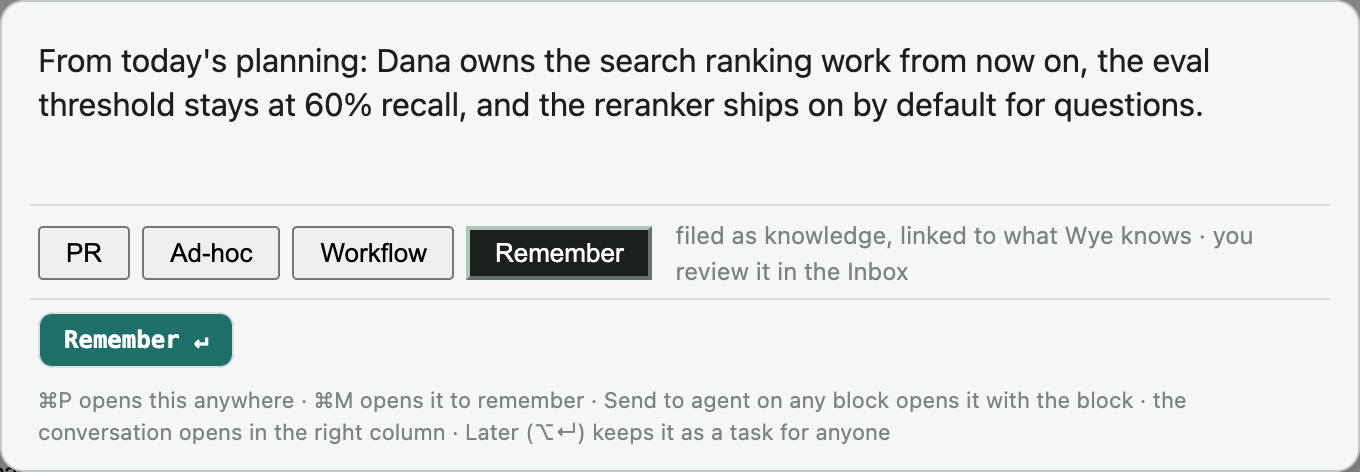
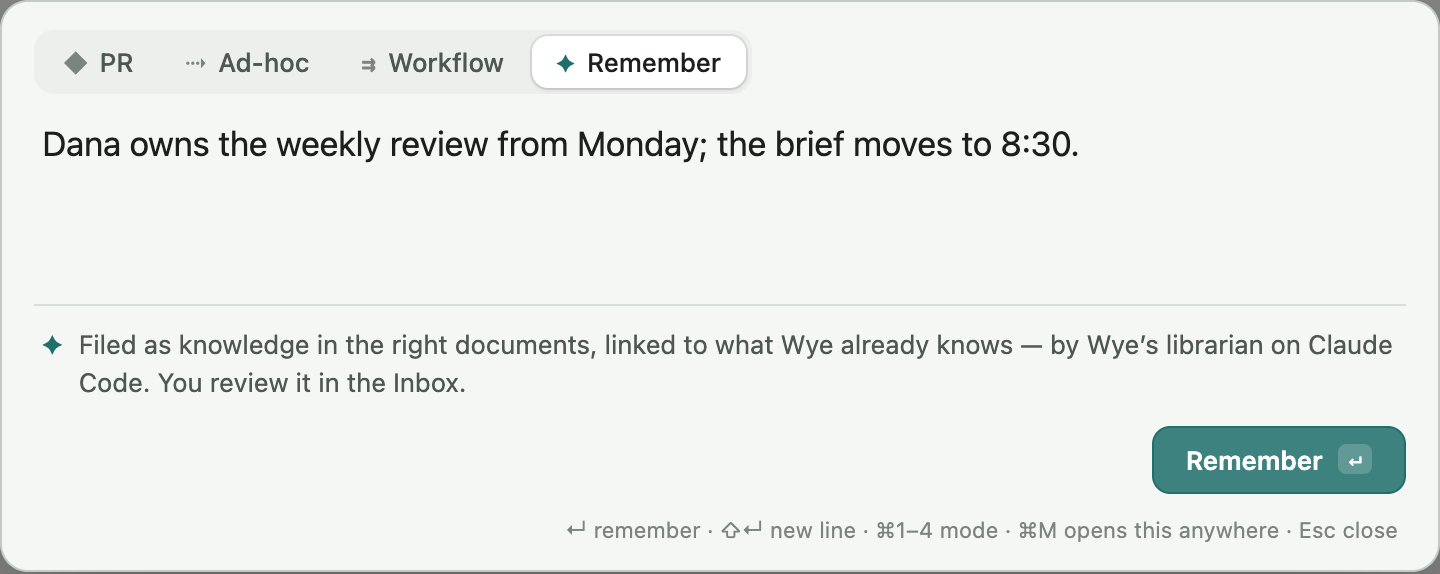
the command box: modes as a segmented control on top (⌘1–4), a line saying what the mode does and who does it, labelled fields, the action on the right with its key, this mode's keys only

diff --git a/packages/web/src/components/CommandBox.tsx b/packages/web/src/components/CommandBox.tsx
@@ -22,6 +22,13 @@ import { loadRecent, rememberRecent } from '@/lib/recent';
 // stages produce their documents and each one waits for your Advance, and with nothing under the cursor the typed idea
 // becomes the document the run starts from. Images pasted or dropped into the box go along (req:wf2.ui.palette-images).
 export type CmdMode = 'pr' | 'adhoc' | 'workflow' | 'remember';
+// the box's modes, in the order ⌘1–4 picks them
+const MODES: { key: CmdMode; label: string; icon: string; title: string }[] = [
+  { key: 'pr', label: 'PR', icon: '◆', title: 'A Prompt Request: a page under PRs, refined with Wye until it is clear, approved by you, then built' },
+  { key: 'adhoc', label: 'Ad-hoc', icon: '⇢', title: 'A conversation with a coding agent on what you are looking at' },
+  { key: 'workflow', label: 'Workflow', icon: '⇉', title: 'Run a workflow: each stage writes its document and waits for you' },
+  { key: 'remember', label: 'Remember', icon: '✦', title: 'Paste information: Wye files it as knowledge, linked to what it knows' },
+];
 // `mode` opens the box in that mode whatever was used last (⌘M → remember)
 export type SendRequest = { text?: string; refs?: string[]; source?: { project?: string; doc?: string; blockId?: string; link?: string }; mode?: CmdMode };
 export function requestSend(detail: SendRequest) { window.dispatchEvent(new CustomEvent('wf:send', { detail })); }
@@ -79,6 +86,7 @@ export function CommandBox() {
       if ((e.metaKey || e.ctrlKey) && !e.shiftKey && !e.altKey && e.key.toLowerCase() === 'p') { e.preventDefault(); if (req) setReq(null); else show(here()); }
       // ⌘M (Ctrl+M in a browser, where ⌘M minimizes the window): the box in Remember mode — paste, and Wye files it
       else if ((e.metaKey || e.ctrlKey) && !e.shiftKey && !e.altKey && e.key.toLowerCase() === 'm') { e.preventDefault(); if (req && mode === 'remember') setReq(null); else { show({ ...here(), mode: 'remember' }); setModeState('remember'); } }
+      else if (req && (e.metaKey || e.ctrlKey) && !e.shiftKey && !e.altKey && /^[1-4]$/.test(e.key)) { e.preventDefault(); setMode(MODES[Number(e.key) - 1].key); }
       // Escape leaves a recalled command behind first, and closes the box on the next press (task:palette-recent-commands)
       else if (e.key === 'Escape' && req) { if (at >= 0) { e.preventDefault(); e.stopPropagation(); setAt(-1); setText(''); } else setReq(null); }
     };
@@ -199,55 +207,55 @@ export function CommandBox() {
   };
   const label = (s: Live) => `${AGENTS.find(a => a.id === s.agent)?.label ?? s.agent} · ${s.instruction.split('\n').find(l => l.trim())?.slice(0, 50) ?? s.id}`;
   const refs = req.refs ?? [];
+  const M = MODES.find(m => m.key === mode) ?? MODES[0];
+  const placeholder = isRem ? 'Paste notes, a message, an update…' : isWf ? 'The idea, in a line or two' : isPr ? 'What do you want to change?' : isNew ? 'What should the agent do?' : 'Your next message to that conversation';
+  const about = isPr ? 'A Prompt Request — Wye\u2019s librarian on Claude Code reads what the product knows, asks what it must and proposes the blocks; you approve on the PR\u2019s page before anything is built.'
+    : isRem ? 'Filed as knowledge in the right documents, linked to what Wye already knows — by Wye\u2019s librarian on Claude Code. You review it in the Inbox.'
+    : isWf ? 'Runs a workflow on what you are looking at — each stage writes its document and waits for you to advance it.'
+    : !isNew ? (fresh ? 'Restarts that conversation\u2019s agent from nothing, then sends this as its first message.' : 'Goes into that conversation as your next message; the agent keeps its context and folder.')
+    : target === 'runner' ? 'Queued until a runner for that agent picks it up (wye agent listen).' : 'A conversation with a coding agent on what you are looking at — nothing is written unless you ask.';
+  const verb = busy ? 'Sending…' : isWf ? 'Run' : isRem ? 'Remember' : isPr ? 'Start the PR' : !isNew ? (fresh ? 'Restart & send' : 'Send') : target === 'runner' ? 'Queue' : 'Talk';
+  const canLater = isNew && !isWf && !isRem;
+  const empty = !text.trim() && !attach.images.length && !(isWf && refsOf(req).length);
   return createPortal(
     <div className="modal-back palette-back" onMouseDown={e => { if (e.target === e.currentTarget) setReq(null); }}>
-      <div className="modal palette" role="dialog" aria-label="Command" onDragOver={attach.onDragOver} onDrop={attach.onDrop}>
-        <textarea ref={box} className="palette-in" value={text} rows={text.split('\n').length > 3 ? 6 : 3} placeholder={isRem ? 'Paste what Wye should remember — meeting notes, a message, an update, facts about a person or a project (Enter to file it, Shift+Enter for a new line)' : isWf ? 'The idea, in a line or two — its first line names the document when there is nothing under the cursor (Enter runs the workflow)' : isPr ? 'What do you want? — improve …, allow …, change … (Enter starts the PR; Shift+Enter for a new line)' : isNew ? 'What should the agent do? — fix …, build …, change … (Enter to run, Shift+Enter for a new line; paste a screenshot too)' : 'Your next message to that conversation (Enter to send, Shift+Enter for a new line; paste a screenshot too)'} onChange={e => setText(e.target.value)} onPaste={attach.onPaste} onKeyDown={e => { if (e.key === 'Enter' && !e.shiftKey) { e.preventDefault(); if (e.altKey && !isRem) later(); else run(); } else history(e); }} disabled={busy} />
+      <div className={`modal palette mode-${mode}`} role="dialog" aria-label="Command" onDragOver={attach.onDragOver} onDrop={attach.onDrop}>
+        <div className="palette-modes" role="tablist" aria-label="Mode">
+          {MODES.map((m, i) => <button key={m.key} type="button" role="tab" aria-selected={mode === m.key} className={`pm ${mode === m.key ? 'on' : ''}`} onClick={() => setMode(m.key)} title={`${m.title} (⌘${i + 1})`}><i aria-hidden>{m.icon}</i>{m.label}</button>)}
+        </div>
+        <textarea ref={box} className="palette-in" value={text} rows={text.split('\n').length > 3 ? 6 : 3} placeholder={placeholder} onChange={e => setText(e.target.value)} onPaste={attach.onPaste} onKeyDown={e => { if (e.key === 'Enter' && !e.shiftKey) { e.preventDefault(); if (e.altKey && canLater) later(); else run(); } else history(e); }} disabled={busy} />
         <AttachStrip images={attach.images} remove={attach.remove} />
         {refs.length > 0 && <div className="palette-ctx"><span className="muted">with</span>{refs.map(id => <SmartTag key={id} id={id} />)}{req.source?.blockId && <span className="muted">· this block</span>}</div>}
-        <div className="palette-row palette-intent" role="radiogroup" aria-label="Mode">
-          <button type="button" className={`chip ${isPr ? 'on' : ''}`} onClick={() => setMode('pr')} title="A Prompt Request: a page under PRs, refined with Wye until it is clear, approved by you, then built">PR</button>
-          <button type="button" className={`chip ${mode === 'adhoc' ? 'on' : ''}`} onClick={() => setMode('adhoc')} title="A conversation with a coding agent on what you are looking at; nothing is written unless you ask">Ad-hoc</button>
-          <button type="button" className={`chip ${isWf ? 'on' : ''}`} onClick={() => setMode('workflow')} title="Run a workflow on what you are looking at: each stage produces its document and waits for you to advance it">Workflow</button>
-          <button type="button" className={`chip ${isRem ? 'on' : ''}`} onClick={() => setMode('remember')} title="Paste information: Wye files it as knowledge in the right documents, linked to what it already knows, and you review it in the Inbox (⌘M)">Remember</button>
-          <span className="muted palette-note">{isPr ? 'a request: refine → approve → build' : isRem ? 'filed as knowledge, linked to what Wye knows · you review it in the Inbox' : isWf ? 'stage by stage, you advance each one' : 'a conversation, no PR'}</span>
-        </div>
-        {isWf && <div className="palette-row">
-          <label className="palette-to"><span className="muted">run</span>
-            <select value={wf} onChange={e => setWf(e.target.value)} title="which workflow">
-              {workflows.length === 0 && <option value="">no workflow runs on this</option>}
-              {workflows.map(w => <option key={w.id} value={w.id}>{w.title} — {w.stages.length} stages</option>)}
-            </select>
-          </label>
-          <span className="muted palette-note">{(() => { const w = workflows.find(x => x.id === wf); const on = refsOf(req)[0]; return w ? `${on ? `on ${on}` : 'the first line becomes a new document'} · stage 1 of ${w.stages.length}: ${w.stages[0]?.title ?? ''}` : ''; })()}</span>
-        </div>}
-        {!isPr && !isWf && !isRem && <div className="palette-row">
-          <label className="palette-to"><span className="muted">to</span>
-            <select value={target} onChange={e => setTarget(e.target.value)} title="where the message goes">
-              {sessions.length > 0 && <optgroup label="active conversations">{sessions.map(s => <option key={s.id} value={s.id}>{label(s)}</option>)}</optgroup>}
-              <optgroup label="new"><option value="new">New conversation — a coding agent</option><option value="runner">Queue for a runner (wye agent listen)</option></optgroup>
-            </select>
-          </label>
-          {isNew && <select value={agent} onChange={e => setAgent(e.target.value)} title="agent">{AGENTS.map(a => <option key={a.id} value={a.id}>{a.label}</option>)}</select>}
-        </div>}
-        {isPr && <div className="palette-row"><AttachPicker product={product} value={attachTo} onChange={setAttachTo} compact /></div>}
-        {isPr && <div className="palette-row"><span className="muted palette-note">Wye reads what the product already knows, explains the current state, asks what it must, and proposes the requirements, decisions, questions and tasks as blocks on the PR's page — you approve there; nothing is built before that</span></div>}
-        {!isNew && !isWf && (
-          <div className="palette-row">
-            <label className="palette-plan" title="Stop that agent and start a fresh one in the same folder before this message: it forgets the conversation so far and reads what it needs from Wye">
-              <input type="checkbox" checked={fresh} onChange={e => setFresh(e.target.checked)} /> clear context first — a fresh agent, same folder, for an unrelated task
+        <div className="palette-opts">
+          <p className="palette-about"><i aria-hidden>{M.icon}</i><span>{about}</span></p>
+          {isWf && <div className="palette-fields">
+            <label className="palette-field"><span>Workflow</span>
+              <select value={wf} onChange={e => setWf(e.target.value)}>
+                {workflows.length === 0 && <option value="">no workflow runs on this</option>}
+                {workflows.map(w => <option key={w.id} value={w.id}>{w.title} — {w.stages.length} stages</option>)}
+              </select>
             </label>
-          </div>
-        )}
-        <div className="palette-row">
-          {!isPr && !isWf && !isRem && target === 'new' && <input className="palette-cwd" value={cwd} placeholder={defaults.cwd || 'working folder: the code repository the agent works in'} onChange={e => setCwd(e.target.value)} spellCheck={false} title="working folder" />}
-          {!isNew && !isWf && <span className="muted palette-note">{fresh ? 'restarts that conversation\u2019s agent from nothing — after its current turn when one is open — then sends this as its first message' : 'goes into that conversation as your next message; the agent keeps its context and folder'}</span>}
-          {target === 'runner' && <span className="muted palette-note">queued until a runner for that agent picks it up</span>}
-          {isNew && !isWf && !isRem && <button className="palette-later" onClick={later} disabled={!text.trim() || busy} title="Keep it as a task on the backlog — unassigned, on the Work view — without sending it to anyone (⌥↵)">Later</button>}
-          <button className="palette-go" onClick={run} disabled={(!text.trim() && !attach.images.length && !(isWf && refsOf(req).length)) || busy}>{busy ? 'Sending…' : isWf ? 'Run ↵' : isRem ? 'Remember ↵' : isPr ? 'Start the PR ↵' : !isNew ? (fresh ? 'Restart & send ↵' : 'Send ↵') : target === 'runner' ? 'Queue ↵' : 'Talk ↵'}</button>
+            <span className="muted palette-note">{(() => { const w = workflows.find(x => x.id === wf); const on = refsOf(req)[0]; return w ? `${on ? `on ${on}` : 'the first line becomes a new document'} · stage 1 of ${w.stages.length}: ${w.stages[0]?.title ?? ''}` : ''; })()}</span>
+          </div>}
+          {mode === 'adhoc' && <div className="palette-fields">
+            <label className="palette-field"><span>To</span>
+              <select value={target} onChange={e => setTarget(e.target.value)}>
+                {sessions.length > 0 && <optgroup label="active conversations">{sessions.map(s => <option key={s.id} value={s.id}>{label(s)}</option>)}</optgroup>}
+                <optgroup label="new"><option value="new">New conversation</option><option value="runner">Queue for a runner</option></optgroup>
+              </select>
+            </label>
+            {isNew && <label className="palette-field"><span>Agent</span><select value={agent} onChange={e => setAgent(e.target.value)}>{AGENTS.map(a => <option key={a.id} value={a.id}>{a.label}</option>)}</select></label>}
+            {target === 'new' && <label className="palette-field palette-field-wide"><span>Folder</span><input className="palette-cwd" value={cwd} placeholder={defaults.cwd || 'the code repository the agent works in'} onChange={e => setCwd(e.target.value)} spellCheck={false} /></label>}
+            {!isNew && <label className="palette-check" title="Stop that agent and start a fresh one in the same folder before this message: it forgets the conversation so far and reads what it needs from Wye"><input type="checkbox" checked={fresh} onChange={e => setFresh(e.target.checked)} /> clear context first</label>}
+          </div>}
+          {isPr && <div className="palette-fields"><AttachPicker product={product} value={attachTo} onChange={setAttachTo} compact /></div>}
         </div>
         {msg && <p className="bad palette-msg">{msg}</p>}
-        <p className="muted palette-hint">⌘P opens this anywhere · ⌘M opens it to remember · Send to agent on any block opens it with the block · the conversation opens in the right column · Later (⌥↵) keeps it as a task for anyone{recent.length > 0 ? ' · ↑ what you asked before' : ''}</p>
+        <div className="palette-actions">
+          {canLater && <button className="palette-later" onClick={later} disabled={!text.trim() || busy} title="Keep it as a task on the backlog — unassigned, on the Work view — without sending it to anyone">Later <kbd>⌥↵</kbd></button>}
+          <button className="palette-go" onClick={run} disabled={empty || busy}>{verb}{!busy && <kbd>↵</kbd>}</button>
+        </div>
+        <p className="muted palette-hint">↵ {verb.replace(/^./, c => c.toLowerCase())} · ⇧↵ new line{canLater ? ' · ⌥↵ later' : ''}{recent.length > 0 ? ' · ↑ what you asked before' : ''} · ⌘1–4 mode · {isRem ? '⌘M' : '⌘P'} opens this anywhere · Esc close</p>
       </div>
     </div>, document.body);
 }

diff --git a/packages/web/src/app/globals.css b/packages/web/src/app/globals.css
@@ -1195,3 +1195,32 @@ body.resizing-y { cursor: row-resize; user-select: none; } body.resizing-y ifram
 .rail-menu .rail-pin a { display: flex; align-items: center; }
 .rail-pin-title { flex: 1; min-width: 0; overflow: hidden; text-overflow: ellipsis; white-space: nowrap; }
 .rail-pin-star { flex: none; margin-left: 6px; font-size: 11px; color: var(--warn); }
+
+/* the command box (⌘P / ⌘M): the mode on top, what it does under the text, the action on the right */
+.modal.palette { width: min(720px, 100%); padding: 14px 16px 12px; border-radius: 14px; }
+.palette-modes { display: inline-flex; gap: 2px; padding: 3px; margin: 0 0 6px; border-radius: 10px; background: var(--sunk); }
+.palette-modes .pm { display: inline-flex; align-items: center; gap: 6px; padding: 5px 12px; border: 0; border-radius: 8px; background: none; color: var(--ink-2); font: 500 13px var(--font-b); cursor: pointer; transition: background .15s, color .15s, box-shadow .15s; }
+.palette-modes .pm i { font-style: normal; font-size: 12px; color: var(--muted); }
+.palette-modes .pm:hover { color: var(--ink); }
+.palette-modes .pm.on { background: var(--surface); color: var(--ink); box-shadow: 0 1px 2px rgba(0,0,0,.12), 0 0 0 1px var(--line); }
+.palette-modes .pm.on i { color: var(--accent); }
+.palette .palette-in { font-size: 17px; padding: 8px 4px; min-height: 84px; }
+.palette-opts { border-top: 1px solid var(--line); margin-top: 6px; padding: 10px 4px 0; display: flex; flex-direction: column; gap: 10px; }
+.palette-about { display: flex; gap: 8px; margin: 0; font-size: 13px; line-height: 1.45; color: var(--ink-2); }
+.palette-about i { font-style: normal; color: var(--accent); flex: none; }
+.palette-fields { display: flex; flex-wrap: wrap; align-items: center; gap: 8px 14px; }
+.palette-field { display: inline-flex; align-items: center; gap: 6px; font-size: 12px; color: var(--muted); }
+.palette-field select, .palette-field .palette-cwd { font: 13px var(--font-b); color: var(--ink); background: var(--surface); border: 1px solid var(--line); border-radius: 7px; padding: 5px 8px; max-width: 300px; }
+.palette-field-wide { flex: 1; min-width: 240px; } .palette-field-wide .palette-cwd { flex: 1; max-width: none; font-family: var(--font-m); font-size: 12px; }
+.palette-check { display: inline-flex; align-items: center; gap: 6px; font-size: 12px; color: var(--ink-2); cursor: pointer; }
+.palette-actions { display: flex; justify-content: flex-end; align-items: center; gap: 8px; margin-top: 12px; }
+.palette-go, .palette-later { display: inline-flex; align-items: center; gap: 8px; font: 600 13px var(--font-b); padding: 8px 16px; border-radius: 9px; cursor: pointer; transition: background .15s, opacity .15s; }
+.palette-go { border: 1px solid var(--accent); background: var(--accent); color: var(--accent-ink); }
+.palette-go:hover:not(:disabled) { filter: brightness(1.08); }
+.palette-go:disabled { background: var(--sunk); border-color: var(--line); color: var(--muted); opacity: 1; cursor: default; }
+.palette-later { border: 1px solid var(--line-2); background: var(--surface); color: var(--ink-2); }
+.palette-later:hover:not(:disabled) { color: var(--ink); border-color: var(--ink-2); }
+.palette-later:disabled { opacity: .5; cursor: default; }
+.palette-go kbd, .palette-later kbd { font: 11px var(--font-m); padding: 1px 5px; border-radius: 4px; background: rgba(255,255,255,.18); color: inherit; }
+.palette-later kbd, .palette-go:disabled kbd { background: var(--sunk); }
+.palette .palette-hint { margin: 10px 4px 0; font-size: 11px; text-align: right; }
